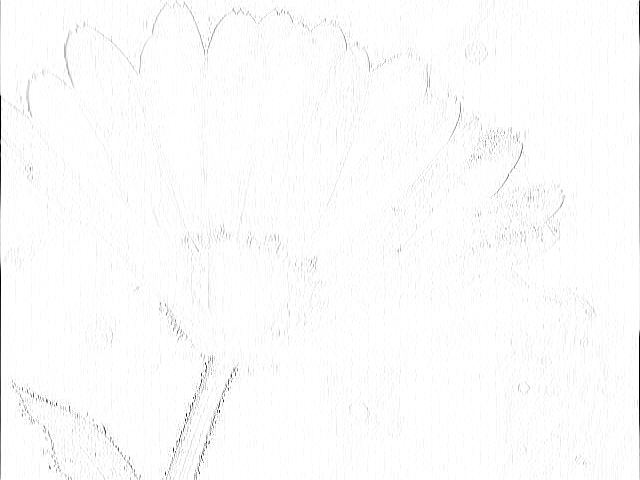
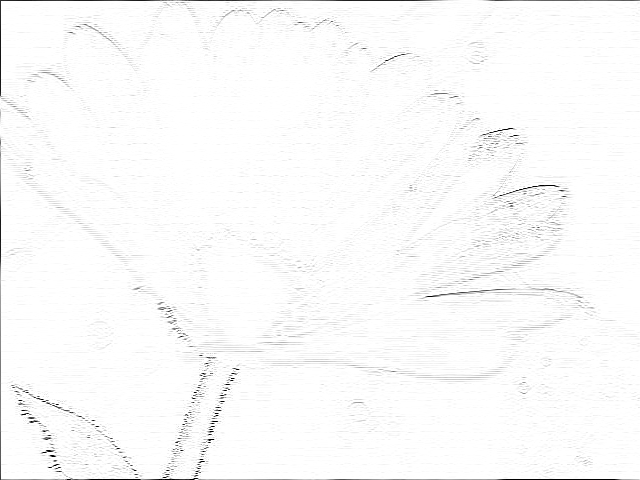
add laplacian

diff --git a/spatial/spatial.go b/spatial/spatial.go
@@ -137,10 +137,9 @@ func PrewittFunc(img image.Image, x, y int) color.RGBA64 {
 }
 
 type Spatial struct {
-	img     image.Image
-	xFilter [3][3]float64
-	yFilter [3][3]float64
-	mdFunc  func(md1, md2 float64) uint16
+	img    image.Image
+	filter [3][3]float64
+	mdFunc func(sum float64) uint16
 }
 
 //PrewittFunc は画像のあるXY近傍9PxにPrewittフィルターをかけて返す。
@@ -148,19 +147,17 @@ func VirticalLineFunc(weight float64, reverse bool) icom.EffectFunc {
 	return func(img image.Image, x, y int) color.RGBA64 {
 		var data Spatial
 		data.img = img
-		data.xFilter = [3][3]float64{
+		data.filter = [3][3]float64{
 			{-0.5, 1, -0.5},
 			{-0.5, 1, -0.5},
 			{-0.5, 1, -0.5},
 		}
-		data.yFilter = [3][3]float64{}
 		//情報の集約（フィルタ込み）
-		data.mdFunc = func(md1, md2 float64) uint16 {
-			gaso := int(md1)
+		data.mdFunc = func(sum float64) uint16 {
+			gaso := int(sum * weight)
 			if reverse == true {
-				gaso = ex.ColorWidth - int(md1)
+				gaso = ex.ColorWidth - gaso
 			}
-
 			if gaso > ex.ColorWidth {
 				gaso = ex.ColorWidth
 			} else if gaso < 0 {
@@ -171,9 +168,65 @@ func VirticalLineFunc(weight float64, reverse bool) icom.EffectFunc {
 
 		col := data.CreateColor(x, y)
 		// フィルタの絶対値取得
-		val := uint16(float64(col.R) * weight)
+		val := uint16(col.R)
 		return color.RGBA64{val, val, val, uint16(col.A)}
 	}
+}
+
+//HorizontalLineFunc は画像のあるXY近傍9PxにPrewittフィルターをかけて返す。
+func HorizontalLineFunc(weight float64, reverse bool) icom.EffectFunc {
+	return func(img image.Image, x, y int) color.RGBA64 {
+		var data Spatial
+		data.img = img
+		data.filter = [3][3]float64{
+			{-0.5, -0.5, -0.5},
+			{1, 1, 1},
+			{-0.5, -0.5, -0.5},
+		}
+		//情報の集約（フィルタ込み）
+		data.mdFunc = func(sum float64) uint16 {
+			gaso := int(sum * weight)
+			if reverse == true {
+				gaso = ex.ColorWidth - gaso
+			}
+			if gaso > ex.ColorWidth {
+				gaso = ex.ColorWidth
+			} else if gaso < 0 {
+				gaso = 0
+			}
+			return uint16(gaso)
+		}
+
+		col := data.CreateColor(x, y)
+		// フィルタの絶対値取得
+		val := uint16(col.R)
+		return color.RGBA64{val, val, val, uint16(col.A)}
+	}
+}
+func LaplacianFunc(img image.Image, x, y int) color.RGBA64 {
+	var data Spatial
+	data.img = img
+	data.filter = [3][3]float64{
+		{-1, -1, -1},
+		{-1, 8, -1},
+		{-1, -1, -1},
+	}
+	//情報の集約（フィルタ込み）
+	data.mdFunc = func(sum float64) uint16 {
+		gaso := ex.ColorWidth/2 + int(sum)
+		if gaso > ex.ColorWidth {
+			gaso = ex.ColorWidth
+		} else if gaso < 0 {
+			gaso = 0
+		}
+		return uint16(gaso)
+	}
+
+	col := data.CreateColor(x, y)
+	// フィルタの絶対値取得
+	val := uint16(col.R)
+	return color.RGBA64{val, val, val, uint16(col.A)}
+
 }
 
 func (sp *Spatial) CreateColor(x, y int) color.RGBA64 {
@@ -182,22 +235,19 @@ func (sp *Spatial) CreateColor(x, y int) color.RGBA64 {
 		return color.RGBA64{uint16(r), uint16(g), uint16(b), uint16(a)}
 	}
 	//情報の集約（フィルタ込み）
-	var rMd1, rMd2, gMd1, gMd2, bMd1, bMd2 float64 = 0, 0, 0, 0, 0, 0
+	var rSum, gSum, bSum float64 = 0, 0, 0
 	for pX := 0; pX < 3; pX++ {
 		for pY := 0; pY < 3; pY++ {
 			r, g, b, _ := sp.img.At(x+(pX-1), y+(pY-1)).RGBA()
-			rMd1 += sp.xFilter[pX][pY] * float64(r)
-			rMd2 += sp.yFilter[pX][pY] * float64(r)
-			gMd1 += sp.xFilter[pX][pY] * float64(g)
-			gMd2 += sp.yFilter[pX][pY] * float64(r)
-			bMd1 += sp.xFilter[pX][pY] * float64(b)
-			bMd2 += sp.yFilter[pX][pY] * float64(r)
+			rSum += sp.filter[pX][pY] * float64(r)
+			gSum += sp.filter[pX][pY] * float64(g)
+			bSum += sp.filter[pX][pY] * float64(b)
 		}
 	}
 	// フィルタの絶対値取得
-	red := sp.mdFunc(rMd1, rMd2)
-	green := sp.mdFunc(gMd1, gMd2)
-	blue := sp.mdFunc(bMd1, bMd2)
+	red := sp.mdFunc(rSum)
+	green := sp.mdFunc(gSum)
+	blue := sp.mdFunc(bSum)
 	_, _, _, a := sp.img.At(x, y).RGBA()
 	return color.RGBA64{red, green, blue, uint16(a)}
 }

diff --git a/effector.go b/effector.go
@@ -297,7 +297,19 @@ func PrewittFilter(img image.Image) image.Image {
 	return icom.SimpleEffect(img, spatial.PrewittFunc)
 }
 
-//LineFilter は与えられた画像に対してPrewittフィルターを適用する。
-func LineFilter(img image.Image) image.Image {
-	return icom.SimpleEffect(img, spatial.VirticalLineFunc)
+//VirticalLineFilter は与えられた画像に対してPrewittフィルターを適用する。
+func VirticalLineFilter(img image.Image, weight float64, flg bool) image.Image {
+	doFunc := spatial.VirticalLineFunc(weight, flg)
+	return icom.SimpleEffect(img, doFunc)
+}
+
+//HorizontalLineFilter は与えられた画像に対してPrewittフィルターを適用する。
+func HorizontalLineFilter(img image.Image, weight float64, flg bool) image.Image {
+	doFunc := spatial.HorizontalLineFunc(weight, flg)
+	return icom.SimpleEffect(img, doFunc)
+}
+
+//LaplacianFilter はラプラシアンフィルタのかかった画像を返す。
+func LaplacianFilter(img image.Image) image.Image {
+	return icom.SimpleEffect(img, spatial.LaplacianFunc)
 }

diff --git a/spatial/spatial_test.go b/spatial/spatial_test.go
@@ -3,7 +3,7 @@ package spatial
 import (
 	"image"
 	"image/color"
-	"localhost/effector/ex"
+	"math"
 	"testing"
 
 	"github.com/kaepa3/effector/icom"
@@ -29,21 +29,15 @@ func Test_AverageAndMedianFunc(t *testing.T) {
 	}
 }
 
-func Test_VirticalLineFunc(t *testing.T) {
+func Test_LaplacianFunc(t *testing.T) {
 	img := testutill.CreateImg(5, 5)
 	rgba := image.NewRGBA64(img.Bounds())
 	icom.ImageLoop(img, func(x int, y int) {
 		val := uint16(x)
 		rgba.Set(x, y, color.RGBA64{val, val, val, 1})
 	})
-	doFunc := VirticalLineFunc(1.0, false)
-	col := doFunc(img, 1, 1)
-	if col.R != 0 || col.G != 0 || col.B != 0 {
-		t.Errorf("val err:%d,%d,%d", col.R, col.G, col.B)
-	}
-	doFunc = VirticalLineFunc(1.0, true)
-	col = doFunc(img, 1, 1)
-	if col.R != ex.ColorWidth || col.G != ex.ColorWidth || col.B != ex.ColorWidth {
+	col := LaplacianFunc(img, 1, 1)
+	if col.R != math.MaxUint16/2 || col.G != math.MaxUint16/2 || col.B != math.MaxUint16/2 {
 		t.Errorf("val err:%d,%d,%d", col.R, col.G, col.B)
 	}
 }

diff --git a/effector_out_test.go b/effector_out_test.go
@@ -25,7 +25,9 @@ func Test_Effect(t *testing.T) {
 	outputFile("avefil", AverageFilter(in, 1.2))
 	outputFile("media", MedianFilter(in))
 	outputFile("prewitt", PrewittFilter(in))
-	outputFile("vlinefil", LineFilter(in))
+	outputFile("vlinefil", VirticalLineFilter(in, 1.2, true))
+	outputFile("hlinefil", HorizontalLineFilter(in, 1.2, true))
+	outputFile("laplacian", LaplacianFilter(in))
 }
 
 func Test_SizeChange(t *testing.T) {
